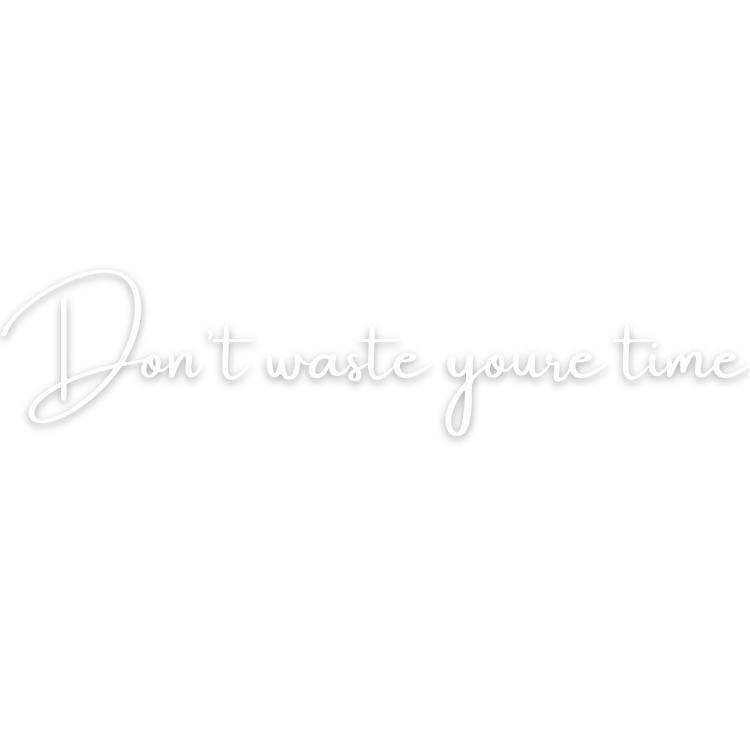
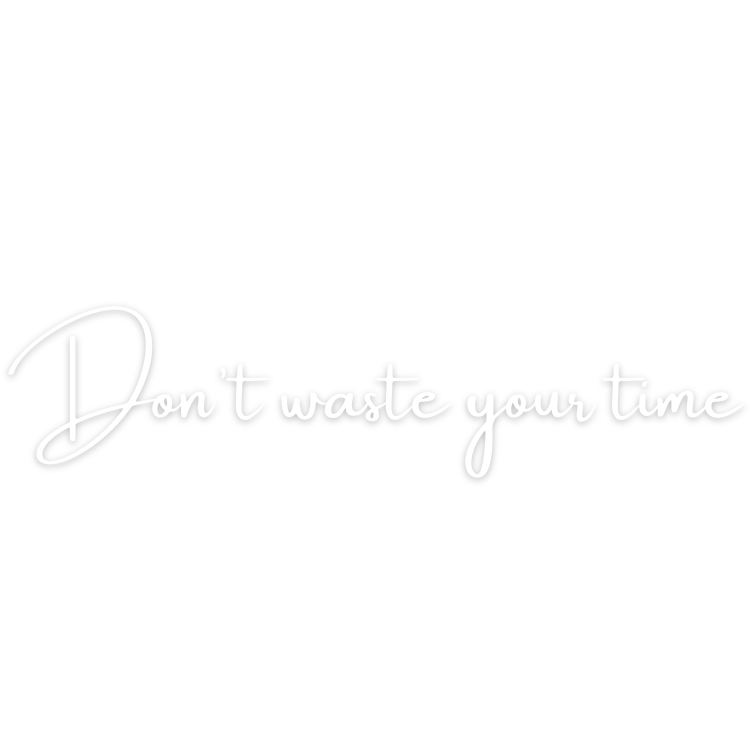
Update slogan

diff --git a/src/components/searchpage.js b/src/components/searchpage.js
@@ -68,12 +68,12 @@ const filterAdress=(filterData)=>{
       <div className='filters'> 
         <div className={classes.center} style={{border:"none", width: "566px"}}>
           <SearchIcon/><input value={search} onChange={(e) => onChangeName(e)} placeholder='Search name..' inputProps={{className: classes.input}} style={{backgroundColor:"rgb(255 255 255)", fontFamily:'Poppins'}}/>
-      </div>
+        </div>
         <div className={classes.center} style={{border:"none", width: "566px"}}>
           <SearchIcon/><input value={searchAdress} onChange={(e) => onChangeAdress(e)} placeholder='Search adress...' inputProps={{className: classes.input}} style={{backgroundColor:"rgb(255 255 255)", fontFamily:'Poppins'}}/>
+        </div>
       </div>
-      </div>
-    <div className='row' style={{width: "100%"}}>
+    <div className='row'>
       {
         isLoading ? (
           <img src={vine} class="vineImg" style={{
@@ -92,7 +92,7 @@ const filterAdress=(filterData)=>{
           : (
             values.map((prov) => (
               <div className='col-md-4'>
-                <Card sx={{ maxWidth: 200 }} key={prov.prov_id} style={{margin:"10px"}}>
+                <Card sx={{ maxWidth: "100%" }} key={prov.prov_id} style={{margin:"10px"}}>
                   <CardActionArea>
                     <CardMedia/>
                     <CardMedia

diff --git a/src/components/homepage.js b/src/components/homepage.js
@@ -7,12 +7,12 @@ import { NavLink } from 'react-router-dom';
 export const HomePage = () => {
     return (
         <body>
-            <div class="bg-image">
+            <div className="bg-image">
             </div>
-            <img src={logo} class="bg-logo"></img>
-            <img src={slogan2} class="slogan"></img>
+            <img src={logo} className="bg-logo"></img>
+            <img src={slogan2} className="slogan"></img>
             <NavLink to="/search">
-            <button class="buttonNow">Booking Now</button>
+            <button className="buttonNow">Booking Now</button>
             </NavLink>
             <Footer />
         </body>

diff --git a/src/components/footer.js b/src/components/footer.js
@@ -5,10 +5,10 @@ import LocationOnIcon from '@mui/icons-material/LocationOn';
 
 export const Footer = () => {
     return (
-<footer id="sticky-footer" class="flex-shrink-0">
-    <div class="text-center">
+<footer id="sticky-footer" className="flex-shrink-0">
+    <div className="text-center">
         <a>© 2022 Copyright: </a>
-        <a class="text" href="https://curcuma.vercel.app/">Curcuma</a>
+        <a className="text" href="https://curcuma.vercel.app/">Curcuma</a>
         <a> | In contribution with</a>
         <a href="https://healthydent.vercel.app/"><img src={healthydent} className='healthydent' /></a>
         <br></br>

diff --git a/src/components/styles/home.css b/src/components/styles/home.css
@@ -23,7 +23,7 @@ body {
 
 .slogan {
     position: absolute;
-    top: 44%;
+    top: 40%;
     left: 47%;
     transform: translate(-40%, -40%);
 }
